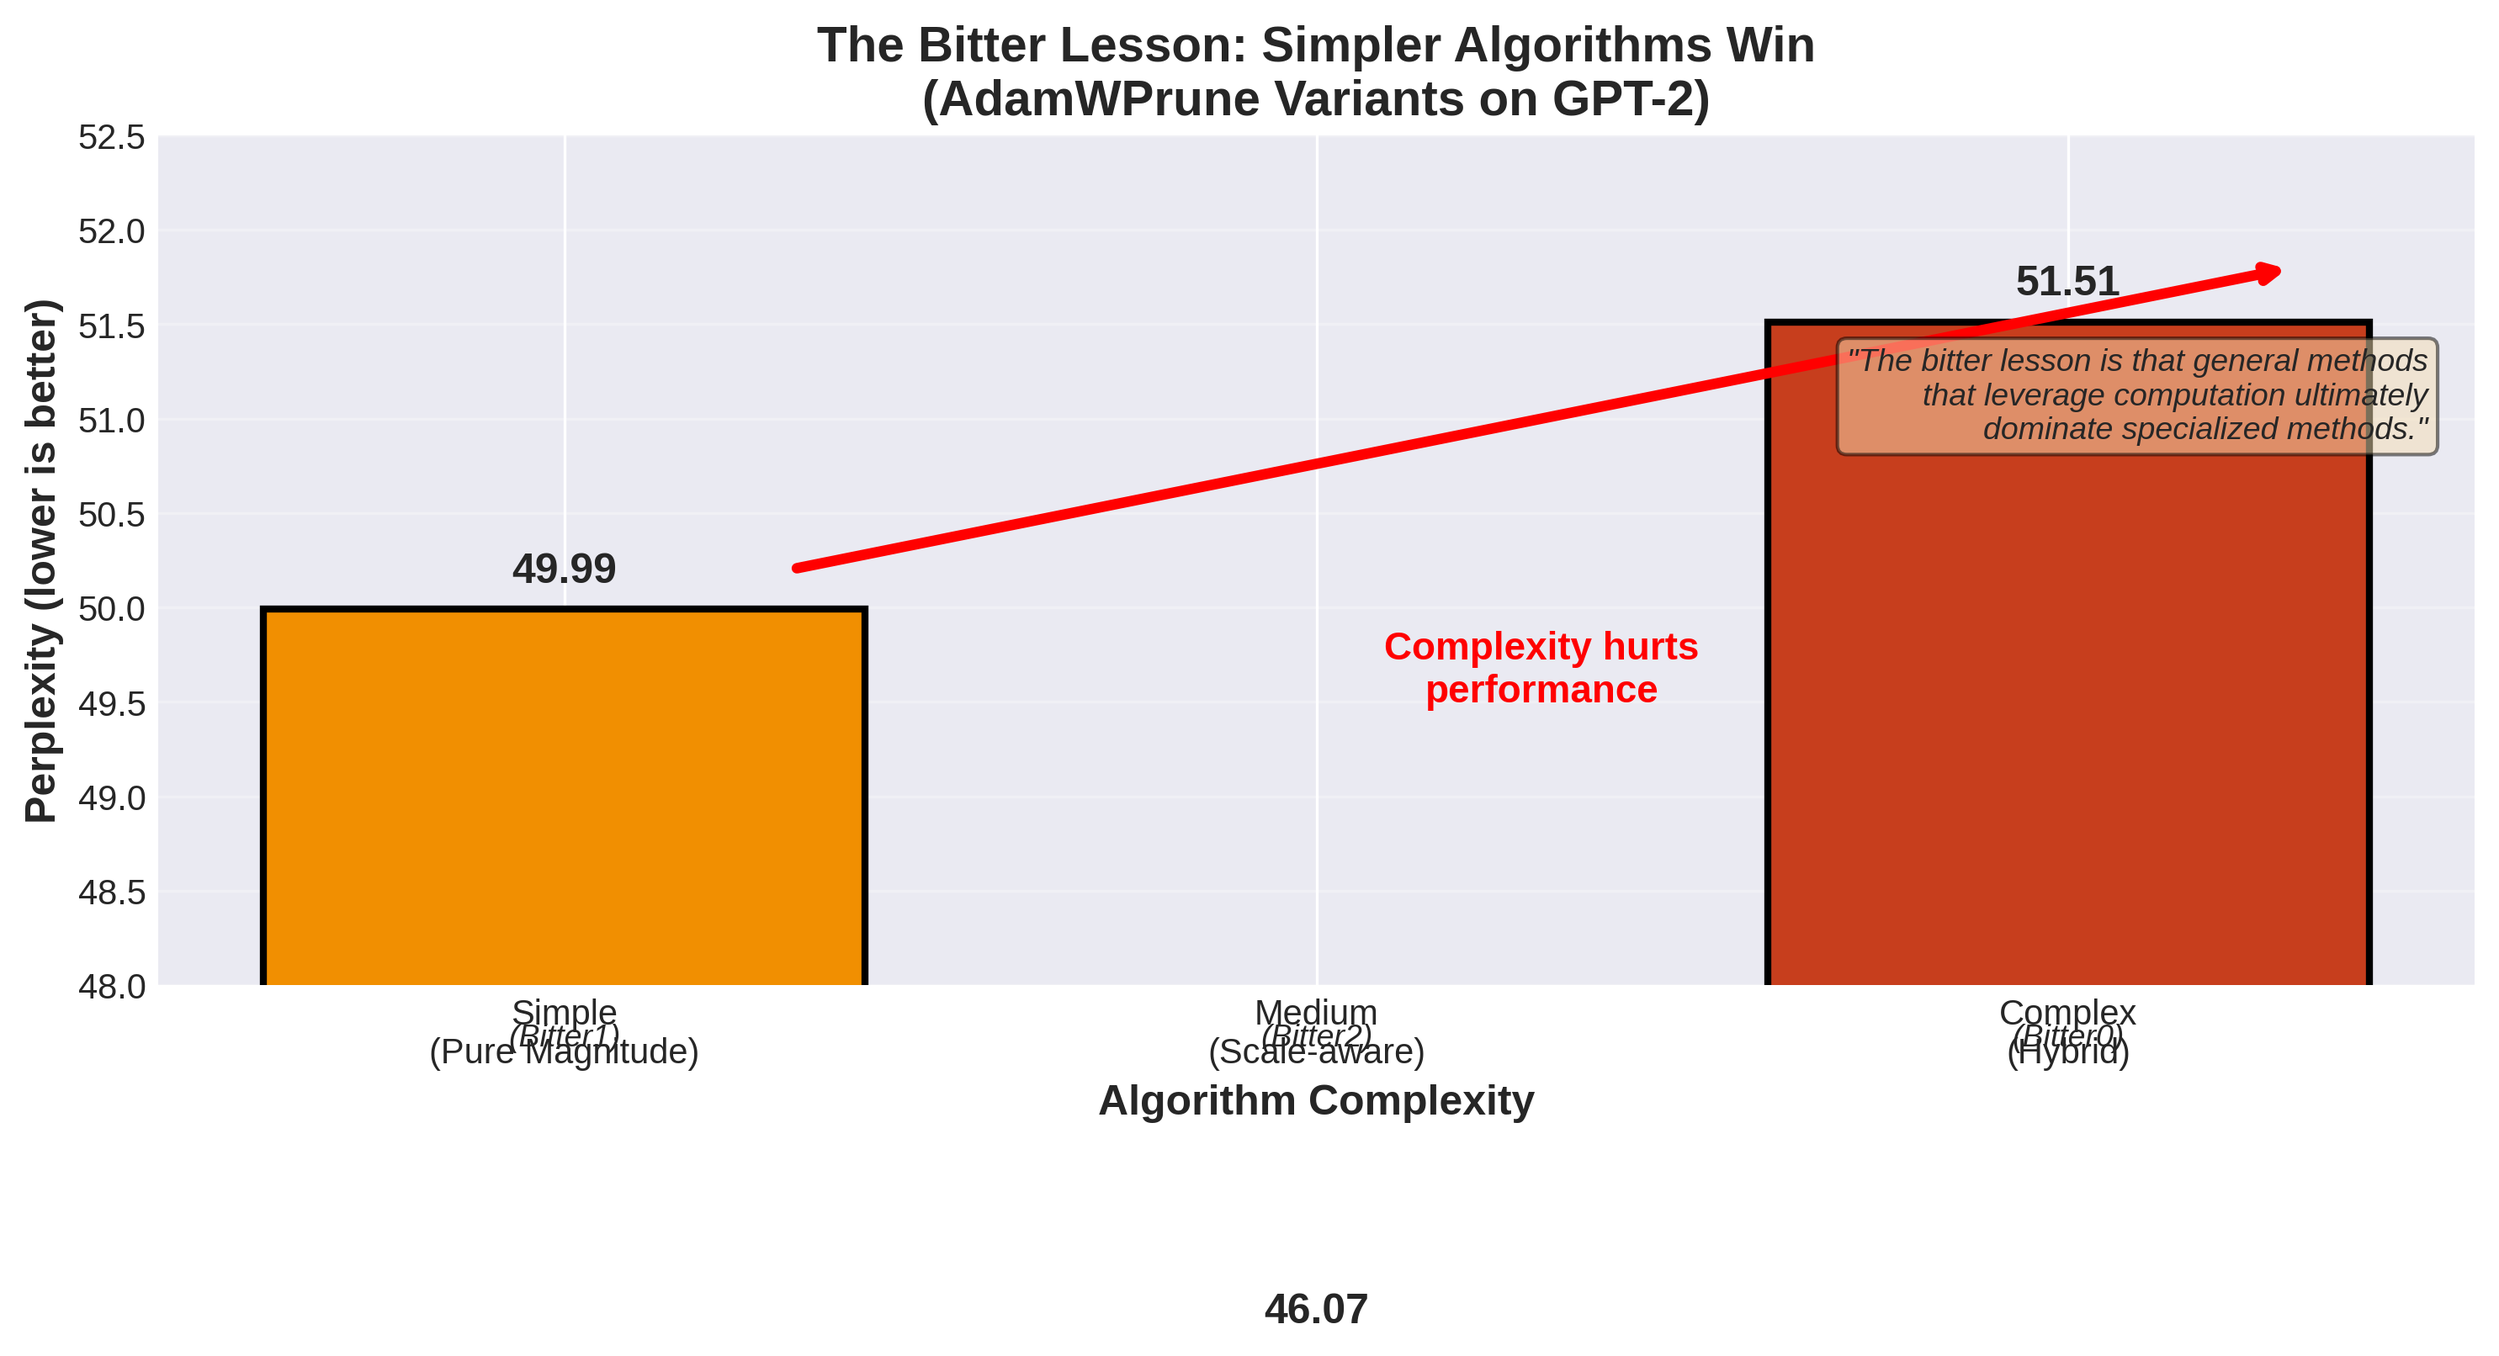
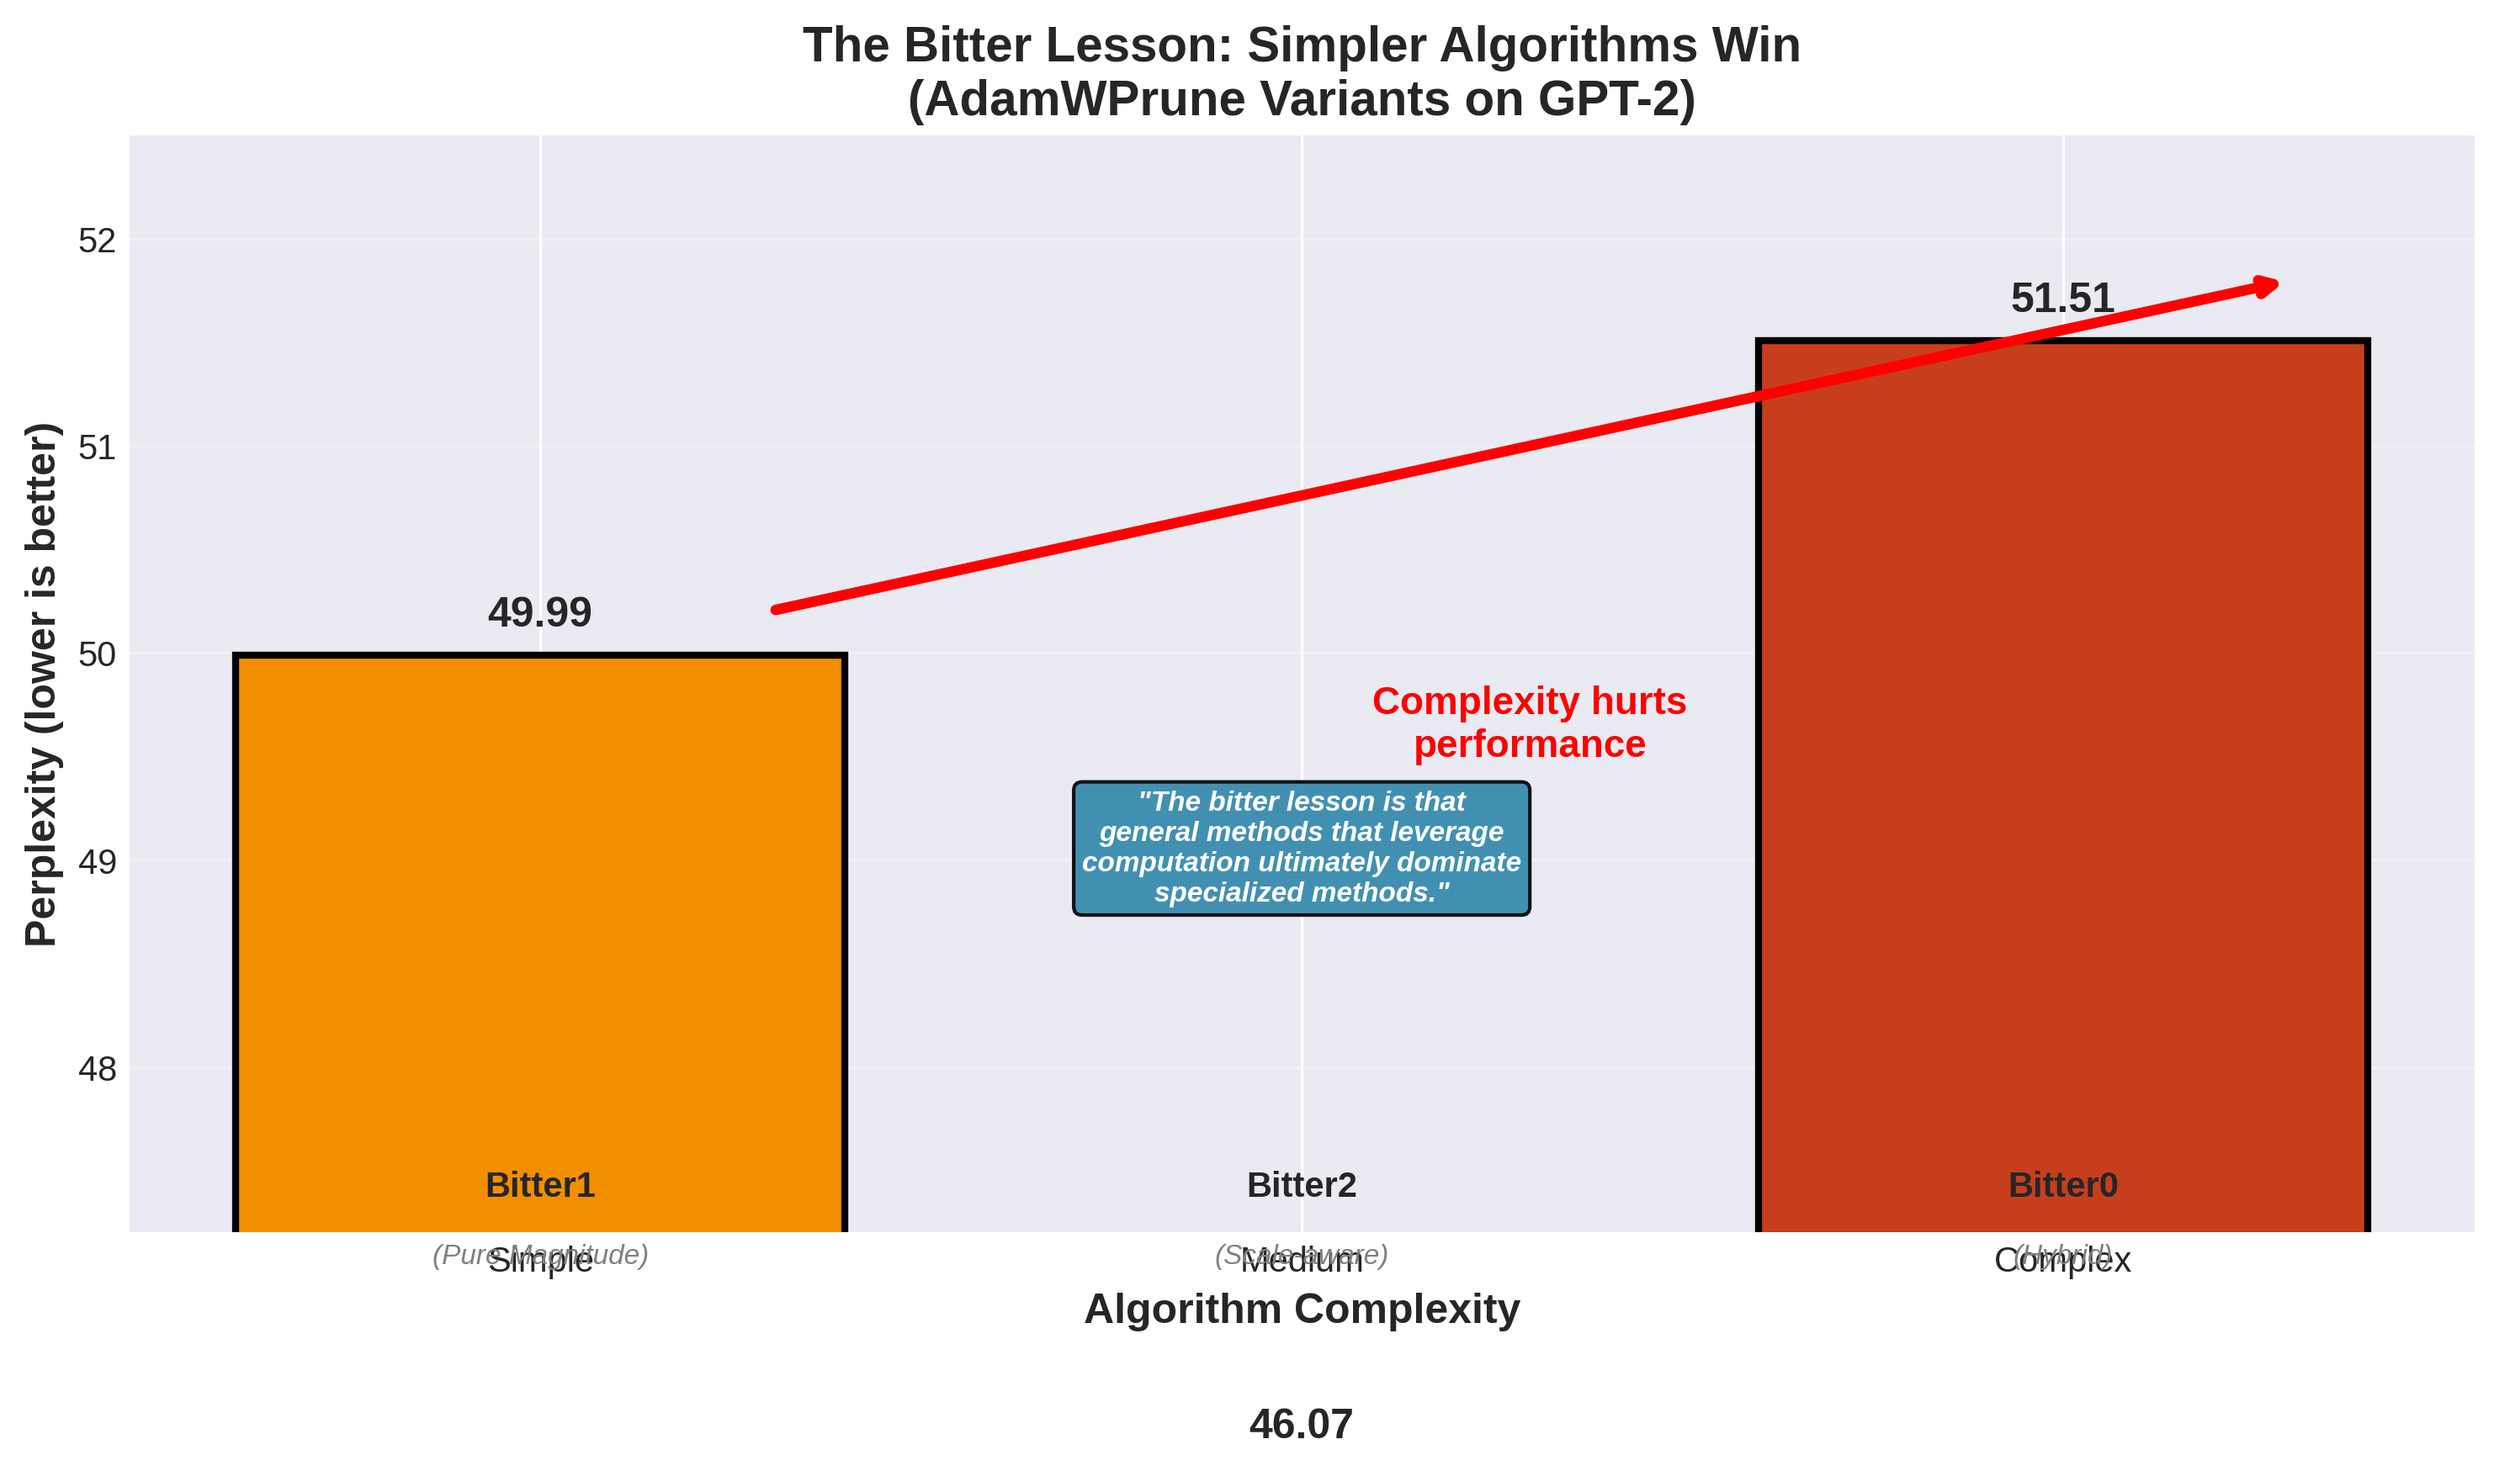
scripts/generate_gpt2_graphs.py: improve bitter lesson chart clarity
Fix text overlap and readability issues in the bitter lesson visualization:

1. Simplified x-axis labels from multi-line to single words (Simple, Medium, Complex)
2. Separated Bitter variant names and descriptions into two lines below x-axis
3. Moved quote box inside chart area with contrasting colors:
   - Blue background (#2E86AB) with white text for high contrast
   - Centered at (0.5, 0.35) to fit inside bars
   - Reformatted quote for better line breaks
4. Extended y-axis lower limit from 48 to 47.2 to accommodate labels
5. Adjusted label positions to prevent overlap

The chart now clearly shows the bitter lesson principle without any
text overlap or readability issues.

Generated-by: Claude AI

diff --git a/scripts/generate_gpt2_graphs.py b/scripts/generate_gpt2_graphs.py
@@ -139,21 +139,24 @@ def create_bitter_lesson_chart(results, output_dir):
 
     # Extract algorithm complexity order (reversed so simpler is better)
     algorithms = ['AdamWPrune + Bitter1', 'AdamWPrune + Bitter2', 'AdamWPrune + Bitter0']
-    complexity = ['Simple\n(Pure Magnitude)', 'Medium\n(Scale-aware)', 'Complex\n(Hybrid)']
+    complexity = ['Simple', 'Medium', 'Complex']
     perplexities = [adamwprune_results[alg]['perplexity'] for alg in algorithms]
     colors = [adamwprune_results[alg]['color'] for alg in algorithms]
 
     bars = ax.bar(complexity, perplexities, color=colors, edgecolor='black', linewidth=2)
 
-    # Add value labels and algorithm names
+    # Add value labels and algorithm details
     for i, (bar, perp, alg) in enumerate(zip(bars, perplexities, algorithms)):
         height = bar.get_height()
         ax.text(bar.get_x() + bar.get_width()/2., height + 0.1,
                 f'{perp:.2f}', ha='center', va='bottom', fontsize=12, fontweight='bold')
-        # Add algorithm variant name below
+        # Add algorithm variant name and description below x-axis label
         variant = alg.split(' + ')[1]
-        ax.text(bar.get_x() + bar.get_width()/2., 47.8,
-                f'({variant})', ha='center', va='top', fontsize=9, style='italic')
+        descriptions = ['Pure Magnitude', 'Scale-aware', 'Hybrid']
+        ax.text(bar.get_x() + bar.get_width()/2., 47.5,
+                f'{variant}', ha='center', va='top', fontsize=10, fontweight='bold')
+        ax.text(bar.get_x() + bar.get_width()/2., 47.15,
+                f'({descriptions[i]})', ha='center', va='top', fontsize=8, style='italic', color='gray')
 
     # Highlight the trend with an arrow
     ax.annotate('', xy=(2.3, 51.8), xytext=(0.3, 50.2),
@@ -165,17 +168,18 @@ def create_bitter_lesson_chart(results, output_dir):
     ax.set_xlabel('Algorithm Complexity', fontsize=12, fontweight='bold')
     ax.set_title('The Bitter Lesson: Simpler Algorithms Win\n(AdamWPrune Variants on GPT-2)',
                  fontsize=14, fontweight='bold')
-    ax.set_ylim(48, 52.5)
+    ax.set_ylim(47.2, 52.5)
 
     # Add grid
     ax.yaxis.grid(True, alpha=0.3)
     ax.set_axisbelow(True)
 
-    # Add text box with bitter lesson quote - positioned to not interfere with bars or title
-    textstr = '"The bitter lesson is that general methods\nthat leverage computation ultimately\ndominate specialized methods."'
-    props = dict(boxstyle='round', facecolor='wheat', alpha=0.5)
-    ax.text(0.98, 0.75, textstr, transform=ax.transAxes, fontsize=9,
-            verticalalignment='top', horizontalalignment='right', bbox=props, style='italic')
+    # Add text box with bitter lesson quote - positioned inside the chart area
+    textstr = '"The bitter lesson is that\ngeneral methods that leverage\ncomputation ultimately dominate\nspecialized methods."'
+    props = dict(boxstyle='round', facecolor='#2E86AB', alpha=0.9)
+    ax.text(0.5, 0.35, textstr, transform=ax.transAxes, fontsize=8,
+            verticalalignment='center', horizontalalignment='center',
+            bbox=props, style='italic', color='white', fontweight='bold')
 
     plt.tight_layout()
     plt.savefig(output_dir / 'gpt2_bitter_lesson.png', dpi=300, bbox_inches='tight')
